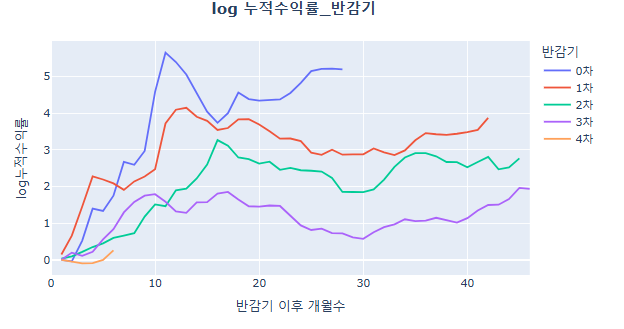
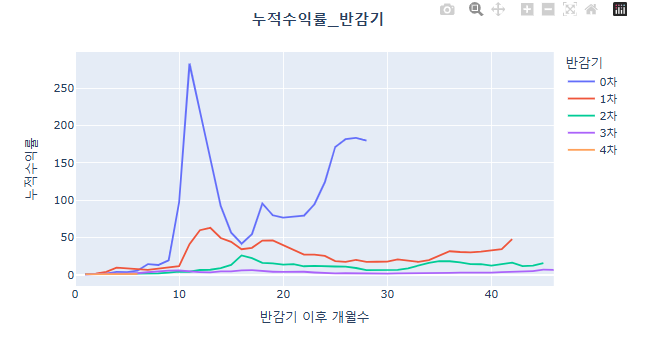
반감기 패턴 페이지 내용 추가 (계절성) - 추후 보완 예정(이해하기 쉽도록)

diff --git a/templates/detail_halving_pattern.html b/templates/detail_halving_pattern.html
@@ -162,7 +162,7 @@
                                         <div>
                                             <h2> 2010~2012 </h2>
                                             <h2> 1차 반감기 이전 </h2>                                        
-                                            <img src="/media/images/halving_patterns/0_halving.png" alt="0차 반감기 " width="800">
+                                            <img src="/media/images/halving_patterns/0_halving.png" alt="0차 반감기 " width="800" height="250">
                                             
                                         </div>
                                     </div>
@@ -176,7 +176,7 @@
                                     <div>
                                         <h2> 2012~2016 </h2>
                                         <h2> 1차 반감기 </h2>                                    
-                                        <img src="/media/images/halving_patterns/1_halving.png" alt="1차 반감기 " width="800">
+                                        <img src="/media/images/halving_patterns/1_halving.png" alt="1차 반감기 " width="800" height="250">
                                         
                                     </div>
                                 </div>
@@ -190,7 +190,7 @@
                                     <div>
                                         <h2> 2016~2020 </h2>
                                         <h2> 2차 반감기 </h2>                                    
-                                        <img src="/media/images/halving_patterns/2_halving.png" alt="2차 반감기 " width="800">
+                                        <img src="/media/images/halving_patterns/2_halving.png" alt="2차 반감기 " width="800" height="250">
                                         
                                     </div>
                                 </div>
@@ -204,7 +204,7 @@
                                     <div>
                                         <h2> 2020~2024 </h2>
                                         <h2> 3차 반감기 </h2>                                    
-                                        <img src="/media/images/halving_patterns/3_halving.png" alt="3차 반감기 " width="800">
+                                        <img src="/media/images/halving_patterns/3_halving.png" alt="3차 반감기 " width="800" height="250">
                                         
                                     </div>
                                 </div>
@@ -226,7 +226,7 @@
 
   <!-- end contact section -->
 <hr>
-    <div class="heading_container">
+    <div class="heading_container" >
         <h2>
             로그 누적 수익률로 본 패턴 
         </h2>
@@ -235,67 +235,32 @@
     <section calss="who_section layout_padding">
       <div>
         <h3> 2010~2024 </h3>
-        <h3> 반감기 별 Log 수익률 </h3>                                    
-          <img src="/media/images/halving_patterns/halving_all_log.png" alt="반감기 별 그래프(로그수익률) " width="800">       
-        <p>반감기 별로 그려본 log 누적 수익률 그래프입니다.</p>
+        <h3><strong> 반감기 별 수익률 </strong></h3>
+          <img src="/media/images/halving_patterns/halving_all_log.png" alt="반감기 별 그래프(수익률) " width="800" >       
+        <p>반감기 별로 그려본 누적 수익률 그래프입니다.</p>
           <ul>
-            <li> 1차~3차 반감기의 log수익률을 보면, 상승하는 지점과 하락하는 지점의 시기가 비슷합니다.</li>
+            <li> 1차~3차 반감기의 수익률을 보면, 상승하는 지점과 하락하는 지점의 시기가 비슷합니다.</li>
             <li> 반감기가 진행 될수록 (0차 → 4차) 누적수익률은 낮아지는 것을 확인할 수 있습니다.</li>
             <li> 이는 반감기마다 채굴량이 줄어 그만큼 수익률이 낮아지는 것으로 보입니다</li>
-          </ul>
-        
-      </div>  
-        <div class="container">
+          </ul>        
+      </div> 
+      
+      <div>
+        <h3><br><strong> 반감기 패턴 확인 </strong></h3>
+        <p>그래프로 보면 비슷해보이는데, 실제로 반감기 패턴이 있을까요? </p>
+        <p>정해진 기간별로 어떠한 패턴을 보이는 것을 '계절성'이라고 하는데요, 반감기 별로 계절성이 있는지 알아보았습니다. </p>
+        <img src="/media/images/halving_patterns/halving_seasonal_decomposition.png" alt="" width="600" >       
+      </div>
+
+
+
+        <!-- <div class="container" style="padding-left: 50px;"> -->
             <!-- 토글 버튼 -->
-            <button onclick="toggleVisibility('compoundInterest')">복리 수익률이란?</button>
+            <!-- <button onclick="toggleVisibility('compoundInterest')">복리 수익률이란?</button> -->
             <!-- 토글버튼 클릭시 나오는 내용 -->
-            <div id="compoundInterest" style="display: none;">
-                <p><strong>로그 수익률을 쓰는 이유 </strong></p>
-                <p>단가 차이가 있어도 사용하기 유용 </p>
-                <p><strong>로그 수익률은 금융데이터에서 많이 사용되는 지표입니다. 가격이 달라도 비교가 쉽습니다</strong></p>
-                <p>예를 들어 A주식의 가격이 1,000원이고 B주식이 1,000,000원이라고 해봅시다.</p>
-            
-                <ul>
-                    <li>두 주식이 모두 10% 올랐다면, A는 100원 올랐고, B는 100,000원이 올랐습니다.</li>
-                    <li>이렇게 단순 수익률은 가격이 클수록 차이가 크게 보이지만, <strong>로그 수익률</strong>은 비율만 따지기 때문에 자산 가격 크기와 상관없이 <strong>공정하게 비교</strong>할 수 있죠.</li>
-                    <li>같은 기준으로 평가하니 불평등한 경쟁도 없습니다!</li>
-                </ul>
-
-                <p><strong><br>복리수익률이 반영되는 로그수익률</strong></p>
-
-                <p>복리 수익률이란?</p>
-                <p>복리는 수익이 발생하면 그 수익도 다시 원금에 더해져 다음 수익을 만드는 방식입니다.</p>
-            
-                <div>
-                    <strong>예를 들어:</strong>
-                    <ul>
-                        <li>100만 원 투자 후 첫 해 10% 수익 → 110만 원</li>
-                        <li>둘째 해 10% 수익 → 121만 원 (원금 110만 원에 다시 10%)</li>
-                    </ul>
-                    복리는 <strong>"앞선 수익을 바탕으로 더 큰 수익을 만드는 방식"</strong>입니다.
-                </div>
-            
-                <p><br>로그 수익률이 복리 수익률을 반영하는 이유</p>
-                <p>
-                    <strong>로그 수익률은 복리 효과를 자동으로 반영합니다.</strong>
-                </p>
-            
-                <div>
-                    <strong>예를 들어:</strong>
-                    <ul>
-                        <li>단순 수익률: <span>1.1 × 1.1 = 1.21</span></li>
-                        <li>로그 수익률: <span>r<sub>총합</sub> = r<sub>1</sub> + r<sub>2</sub> = 0.1 + 0.1 = 0.2</span></li>
-                    </ul>
-                    로그 수익률은 기간별 수익률을 더하기만 해도 복리 효과를 반영할 수 있습니다.
-                </div>
-            
-                <p>
-                    <strong>즉, 로그 수익률을 사용하면 복잡한 계산 없이도 복리 수익률을 쉽게 계산할 수 있습니다.</strong>
-                </p>
-                <p> 결론적으로, 반감기마다 종가의 단위가 크게 달라지는 점을 보완하고 복리수익률을 반영하기 위해 반감기 수익률 비교에 사용했습니다</p>
-
-            </div>
-        </div>
+            <!-- <div id="compoundInterest" style="display: none;"> -->
+            <!-- <p><strong>로그 수익률을 쓰는 이유 </strong></p> </div>-->          
+        <!-- </div> -->
       <!-- 토글 종료 -->       
     </section>
 </section>
@@ -319,7 +284,7 @@
           </div>
       </section>
 <hr>
-
+</div>
   <!-- info section -->
   <section class="info_section ">
     <div class="container">
